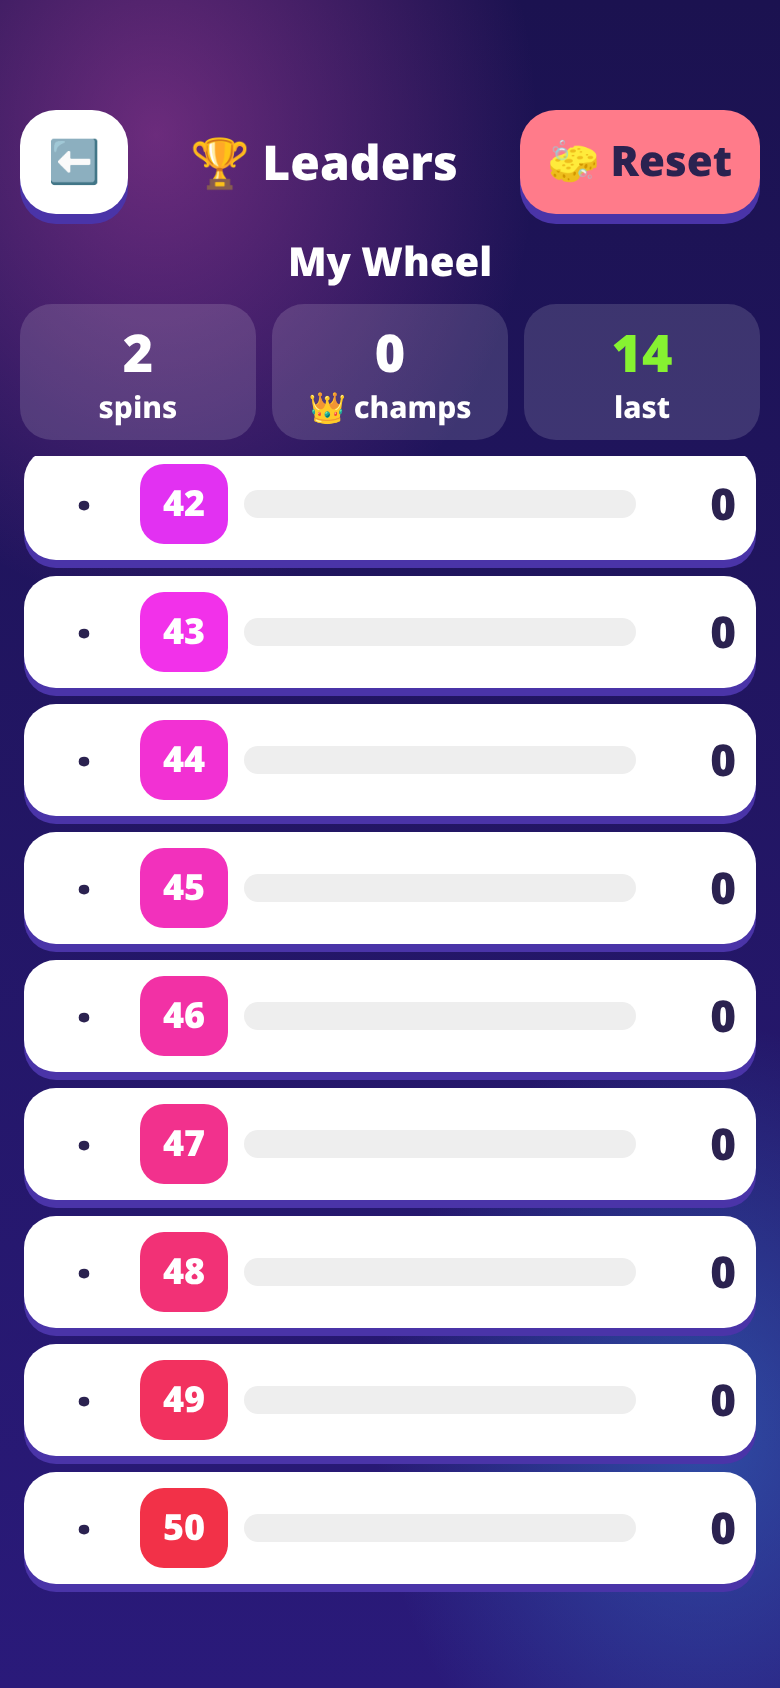
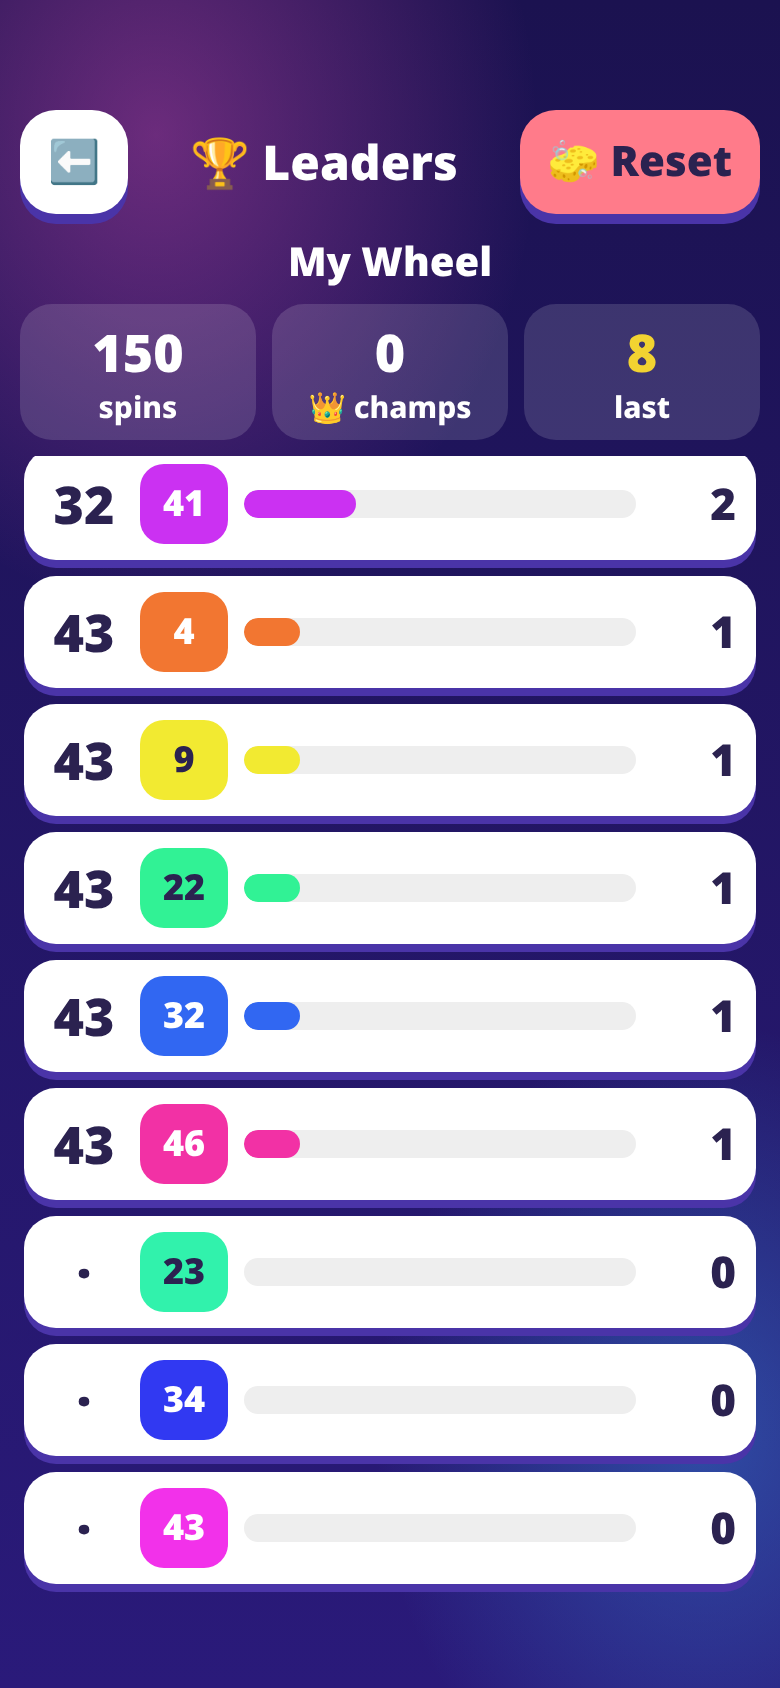
Scroll test: seed 150 real wins on 50-slot wheel

diff --git a/test.js b/test.js
@@ -136,9 +136,9 @@ async function spinAndCheck(P,label,how){const before=await st(P);
  // iOS touch-scroll regression: 50 slots with wins, real touch swipe on leaderboard
  {const ctx=await newCtx(b,'iphone');const P=await open(ctx,'iphone');const cdp=await ctx.newCDPSession(P.page);
   await tap(P,'#toEdit');await tap(P,'#presets [data-n="50"]');await tap(P,'#editDone');
-  await P.page.evaluate(async()=>{window.__SW.setSpeed(400);for(let k=0;k<150;k++){document.getElementById('spinBtn').click();await new Promise(r=>{const f=()=>window.__SW.state().win?r():setTimeout(f,2);f()})}});
+  await P.page.evaluate(async()=>{window.__SW.setSpeed(400);for(let k=0;k<150;k++){document.getElementById('winClose').click();await new Promise(r=>{const f=()=>!window.__SW.state().win&&!window.__SW.state().flinging?r():setTimeout(f,2);f()});document.getElementById('spinBtn').click();await new Promise(r=>{const f=()=>window.__SW.state().win?r():setTimeout(f,2);f()})}});
   await P.page.waitForSelector('#winOv.on');await P.page.waitForTimeout(300);await tap(P,'#winClose');await P.page.waitForFunction(()=>!window.__SW.state().flinging&&!document.querySelector('.ov.on'));await tap(P,'#toBoard');
-  const nRows=await P.page.locator('#boardList .lb').count();check('iphone: 50-slot board renders rows',nRows>=40,String(nRows));
+  const nRows=await P.page.locator('#boardList .lb').count();check('iphone: 50-slot board renders rows',nRows>=40,String(nRows));const sp=await P.page.evaluate(()=>window.__SW.stats().spins);check('iphone: 150 wins recorded for scroll test',sp===150,String(sp));
   const swipe=async(sel)=>{const bb=await P.page.locator(sel).boundingBox();const x=bb.x+bb.width/2,y0=bb.y+bb.height*0.85,y1=bb.y+bb.height*0.1;
     await cdp.send('Input.dispatchTouchEvent',{type:'touchStart',touchPoints:[{x,y:y0}]});for(let k=1;k<=10;k++){await cdp.send('Input.dispatchTouchEvent',{type:'touchMove',touchPoints:[{x,y:y0+(y1-y0)*k/10}]});await P.page.waitForTimeout(16)}
     await cdp.send('Input.dispatchTouchEvent',{type:'touchEnd',touchPoints:[]});await P.page.waitForTimeout(400)};
